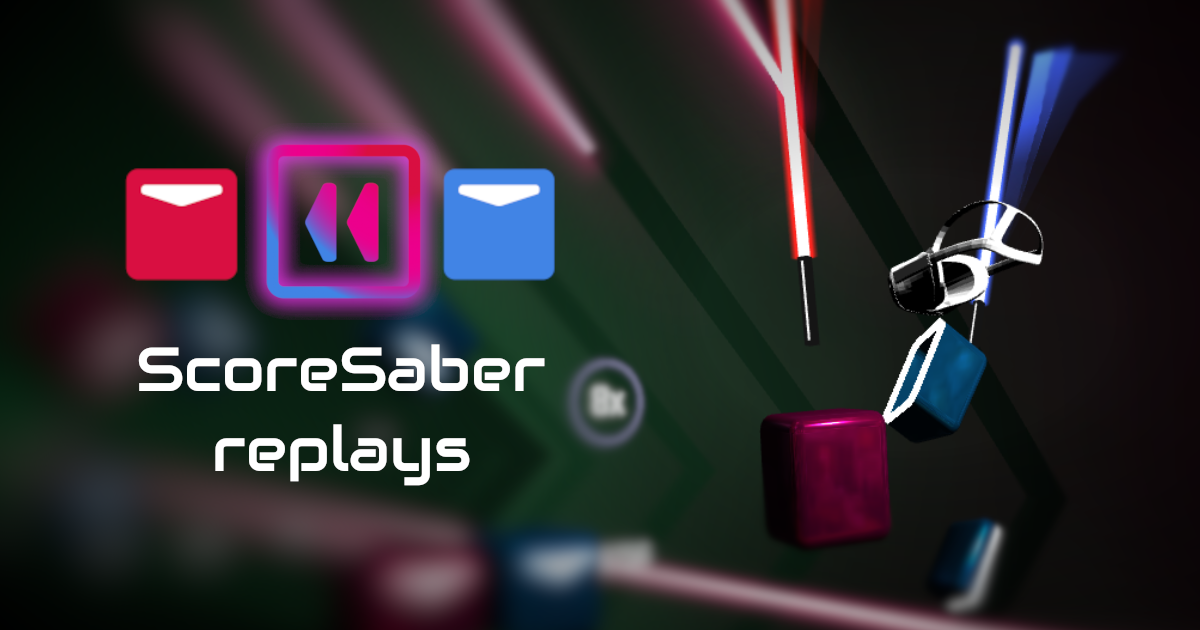
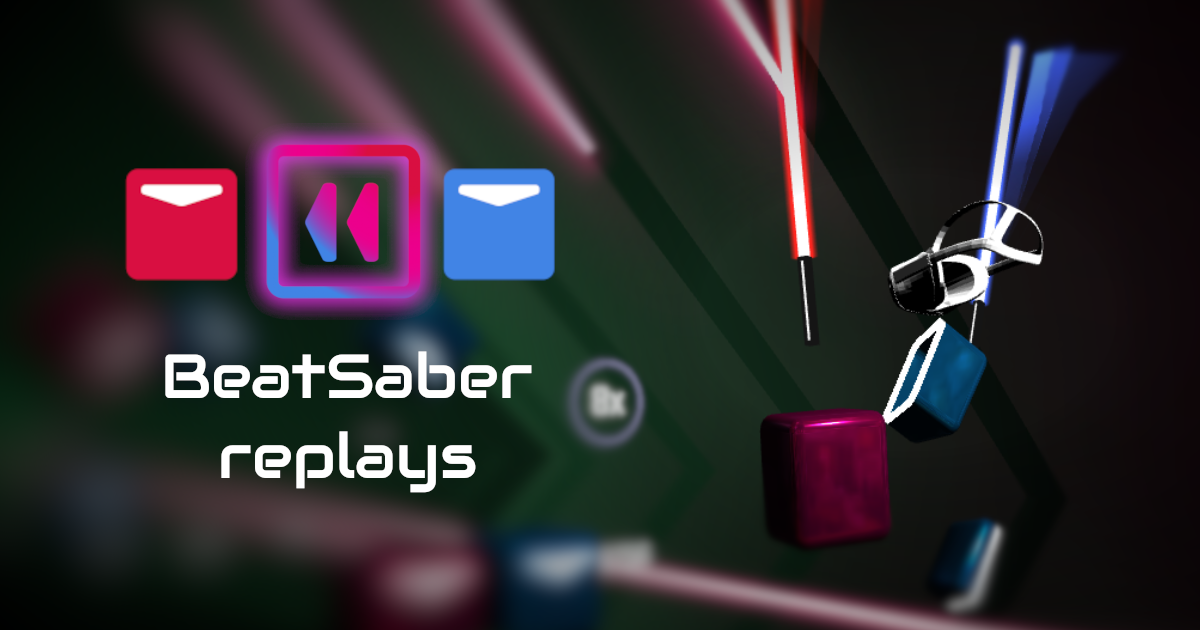
Update readme, name and GA

Changed region(s): [[0.0925, 0.5429, 0.4625, 0.6333], [0.1542, 0.6635, 0.4008, 0.7841]]

diff --git a/src/templates/controls.html b/src/templates/controls.html
@@ -223,4 +223,4 @@
 
 <button id="povswitch" onmousedown="event.preventDefault();" title="First person view"></button>
 
-<a href="https://github.com/radulov/beatsaver-viewer/tree/replays" class="github-corner" aria-label="View source on GitHub"><svg width="80" height="80" viewBox="0 0 250 250" style="fill:#151513; color:#fff; position: absolute; top: 0; border: 0; right: 0;" aria-hidden="true"><path d="M0,0 L115,115 L130,115 L142,142 L250,250 L250,0 Z"></path><path d="M128.3,109.0 C113.8,99.7 119.0,89.6 119.0,89.6 C122.0,82.7 120.5,78.6 120.5,78.6 C119.2,72.0 123.4,76.3 123.4,76.3 C127.3,80.9 125.5,87.3 125.5,87.3 C122.9,97.6 130.6,101.9 134.4,103.2" fill="currentColor" style="transform-origin: 130px 106px;" class="octo-arm"></path><path d="M115.0,115.0 C114.9,115.1 118.7,116.5 119.8,115.4 L133.7,101.6 C136.9,99.2 139.9,98.4 142.2,98.6 C133.8,88.0 127.5,74.4 143.8,58.0 C148.5,53.4 154.0,51.2 159.7,51.0 C160.3,49.4 163.2,43.6 171.4,40.1 C171.4,40.1 176.1,42.5 178.8,56.2 C183.1,58.6 187.2,61.8 190.9,65.4 C194.5,69.0 197.7,73.2 200.1,77.6 C213.8,80.2 216.3,84.9 216.3,84.9 C212.7,93.1 206.9,96.0 205.4,96.6 C205.1,102.4 203.0,107.8 198.3,112.5 C181.9,128.9 168.3,122.5 157.7,114.1 C157.9,116.9 156.7,120.9 152.7,124.9 L141.0,136.5 C139.8,137.7 141.6,141.9 141.8,141.8 Z" fill="currentColor" class="octo-body"></path></svg></a><style>.github-corner:hover .octo-arm{animation:octocat-wave 560ms ease-in-out}@keyframes octocat-wave{0%,100%{transform:rotate(0)}20%,60%{transform:rotate(-25deg)}40%,80%{transform:rotate(10deg)}}@media (max-width:500px){.github-corner:hover .octo-arm{animation:none}.github-corner .octo-arm{animation:octocat-wave 560ms ease-in-out}}</style>
+<a href="https://github.com/radulov/BeatSaber-Web-Replays" class="github-corner" aria-label="View source on GitHub"><svg width="80" height="80" viewBox="0 0 250 250" style="fill:#151513; color:#fff; position: absolute; top: 0; border: 0; right: 0;" aria-hidden="true"><path d="M0,0 L115,115 L130,115 L142,142 L250,250 L250,0 Z"></path><path d="M128.3,109.0 C113.8,99.7 119.0,89.6 119.0,89.6 C122.0,82.7 120.5,78.6 120.5,78.6 C119.2,72.0 123.4,76.3 123.4,76.3 C127.3,80.9 125.5,87.3 125.5,87.3 C122.9,97.6 130.6,101.9 134.4,103.2" fill="currentColor" style="transform-origin: 130px 106px;" class="octo-arm"></path><path d="M115.0,115.0 C114.9,115.1 118.7,116.5 119.8,115.4 L133.7,101.6 C136.9,99.2 139.9,98.4 142.2,98.6 C133.8,88.0 127.5,74.4 143.8,58.0 C148.5,53.4 154.0,51.2 159.7,51.0 C160.3,49.4 163.2,43.6 171.4,40.1 C171.4,40.1 176.1,42.5 178.8,56.2 C183.1,58.6 187.2,61.8 190.9,65.4 C194.5,69.0 197.7,73.2 200.1,77.6 C213.8,80.2 216.3,84.9 216.3,84.9 C212.7,93.1 206.9,96.0 205.4,96.6 C205.1,102.4 203.0,107.8 198.3,112.5 C181.9,128.9 168.3,122.5 157.7,114.1 C157.9,116.9 156.7,120.9 152.7,124.9 L141.0,136.5 C139.8,137.7 141.6,141.9 141.8,141.8 Z" fill="currentColor" class="octo-body"></path></svg></a><style>.github-corner:hover .octo-arm{animation:octocat-wave 560ms ease-in-out}@keyframes octocat-wave{0%,100%{transform:rotate(0)}20%,60%{transform:rotate(-25deg)}40%,80%{transform:rotate(10deg)}}@media (max-width:500px){.github-corner:hover .octo-arm{animation:none}.github-corner .octo-arm{animation:octocat-wave 560ms ease-in-out}}</style>

diff --git a/src/index.html b/src/index.html
@@ -1,7 +1,7 @@
 <!DOCTYPE html>
 <html>
   <head>
-    <title>ScoreSaber Replays</title>
+    <title>BeatSaber Replays</title>
     <link rel="apple-touch-icon-precomposed" sizes="57x57" href="assets/img/apple-touch-icon-57x57.png" />
     <link rel="apple-touch-icon-precomposed" sizes="114x114" href="assets/img/apple-touch-icon-114x114.png" />
     <link rel="apple-touch-icon-precomposed" sizes="72x72" href="assets/img/apple-touch-icon-72x72.png" />
@@ -15,7 +15,7 @@
     <link rel="icon" type="image/png" href="assets/img/favicon-32x32.png" sizes="32x32" />
     <link rel="icon" type="image/png" href="assets/img/favicon-16x16.png" sizes="16x16" />
     <link rel="icon" type="image/png" href="assets/img/favicon-128.png" sizes="128x128" />
-    <meta name="application-name" content="ScoreSaber replays"/>
+    <meta name="application-name" content="BeatSaber replays"/>
     <meta name="msapplication-TileColor" content="#FFFFFF" />
     <meta name="msapplication-TileImage" content="assets/img/mstile-144x144.png" />
     <meta name="msapplication-square70x70logo" content="assets/img/mstile-70x70.png" />
@@ -23,17 +23,29 @@
     <meta name="msapplication-wide310x150logo" content="assets/img/mstile-310x150.png" />
     <meta name="msapplication-square310x310logo" content="assets/img/mstile-310x310.png" />
 
-    <meta name="description" content="ScoreSaber web replay viewer.">
-    <meta property="og:description" content="ScoreSaber web replay viewer.">
+    <meta name="description" content="BeatSaber web replay viewer.">
+    <meta property="og:description" content="BeatSaber web replay viewer.">
     <meta property="og:image" content="https://www.replay.beatleader.xyz/assets/img/preview.png">
-    <meta property="og:title" content="ScoreSaber replays">
-    <meta property="og:type" content="website">
-    <meta name="twitter:title" content="ScoreSaber replays">
-    <meta name="twitter:description" content="ScoreSaber web replay viewer.">
+    <meta property="og:title" content="BeatSaber replays">
+    <meta name="twitter:title" content="BeatSaber replays">
+    <meta name="twitter:description" content="BeatSaber web replay viewer.">
     <meta name="twitter:site" content="replay.beatleader.xyz">
     <meta name="twitter:image" content="https://www.replay.beatleader.xyz/assets/img/preview.png">
-    <meta name="twitter:image:alt" content="ScoreSaber replays">
+    <meta name="twitter:image:alt" content="BeatSaber replays">
     <meta name="twitter:card" content="summary_large_image">
+
+    <meta name="twitter:player" content="#" />
+    <meta name="twitter:player:width" content="1280" />
+    <meta name="twitter:player:height" content="720" />
+    <meta name="twitter:card" content="player">
+
+    <meta property="og:type" content="video.other">
+    <meta property="og:url" content="#">
+    <meta property="og:video:url" content="#">
+    <meta property="og:video:secure_url" content="#">
+    <meta property="og:video:type" content="text/html">
+    <meta property="og:video:width" content="1280">
+    <meta property="og:video:height" content="720">
 
     <script type="text/javascript">
       window.vrDisabled = true;

diff --git a/src/templates/ga.html b/src/templates/ga.html
@@ -1,7 +1,9 @@
-<script async src="https://www.googletagmanager.com/gtag/js?id=UA-111391431-15"></script>
+<!-- Global site tag (gtag.js) - Google Analytics -->
+<script async src="https://www.googletagmanager.com/gtag/js?id=G-2YR65Z0H1Z"></script>
 <script>
   window.dataLayer = window.dataLayer || [];
-  function gtag() { dataLayer.push(arguments); }
+  function gtag(){dataLayer.push(arguments);}
   gtag('js', new Date());
-  gtag('config', 'UA-111391431-15');
+
+  gtag('config', 'G-2YR65Z0H1Z');
 </script>

diff --git a/README.md b/README.md
@@ -1,11 +1,11 @@
-# ScoreSaber replays
+# BeatSaber Web Replays
 
 [![Netlify Status](https://api.netlify.com/api/v1/badges/08ead0d0-ade4-4f38-8af4-9b6c3c679234/deploy-status)](https://app.netlify.com/sites/musing-aryabhata-6ae6ea/deploys)
 
 [A-Frame]: https://github.com/radulov/ngoframe
 [visit]: https://replay.beatleader.xyz/
 
-Web-based viewer for ScoreSaber replays, built with [A-Frame] and JavaScript.
+Web-based viewer for BeatSaber replays, built with [A-Frame] and JavaScript.
 
 **[CLICK TO VIEW][visit]**
 
@@ -24,13 +24,17 @@ id - BeatSaver song ID. ("Ov Sacrament" in this case)
 difficulty - Easy, Normal, Hard, Expert, ExpertPlus
 playerID - player's Steam or Oculus ID (cerret in this case)
 
-To directly link to a seeked time, use the `?time` parameter in the URL (milliseconds):
+To directly link to a seeked time, use the `?time` parameter in the URL (milliseconds, int, 0 to song duration):
 
 `https://www.replay.beatleader.xyz/?id=c32d&difficulty=ExpertPlus&playerID=76561198333869741&time=15000` - 15 sec
 
-To specify replay speed use the `?speed` paramater in the URL (percent):
+To specify replay speed use the `?speed` paramater in the URL (percent, int, 0 to 200):
 
 `https://www.replay.beatleader.xyz/?id=c32d&difficulty=ExpertPlus&playerID=76561198333869741&speed=50` - 50% speed
+
+To specify notes jump distance use the `?jd` paramater in the URL (meters, float, 5 to 50):
+
+`https://www.replay.beatleader.xyz/?id=c32d&difficulty=ExpertPlus&playerID=76561198333869741&jd=18.6` - 18.6 JD
 
 ## Roadmap
 
@@ -53,6 +57,8 @@ building VR experiences. And JavaScript.
 ```
 npm install
 ```
+
+Uses [Open Replay Format](https://github.com/radulov/BS-Open-Replay)
 
 ### Configure Netlify account 
 
